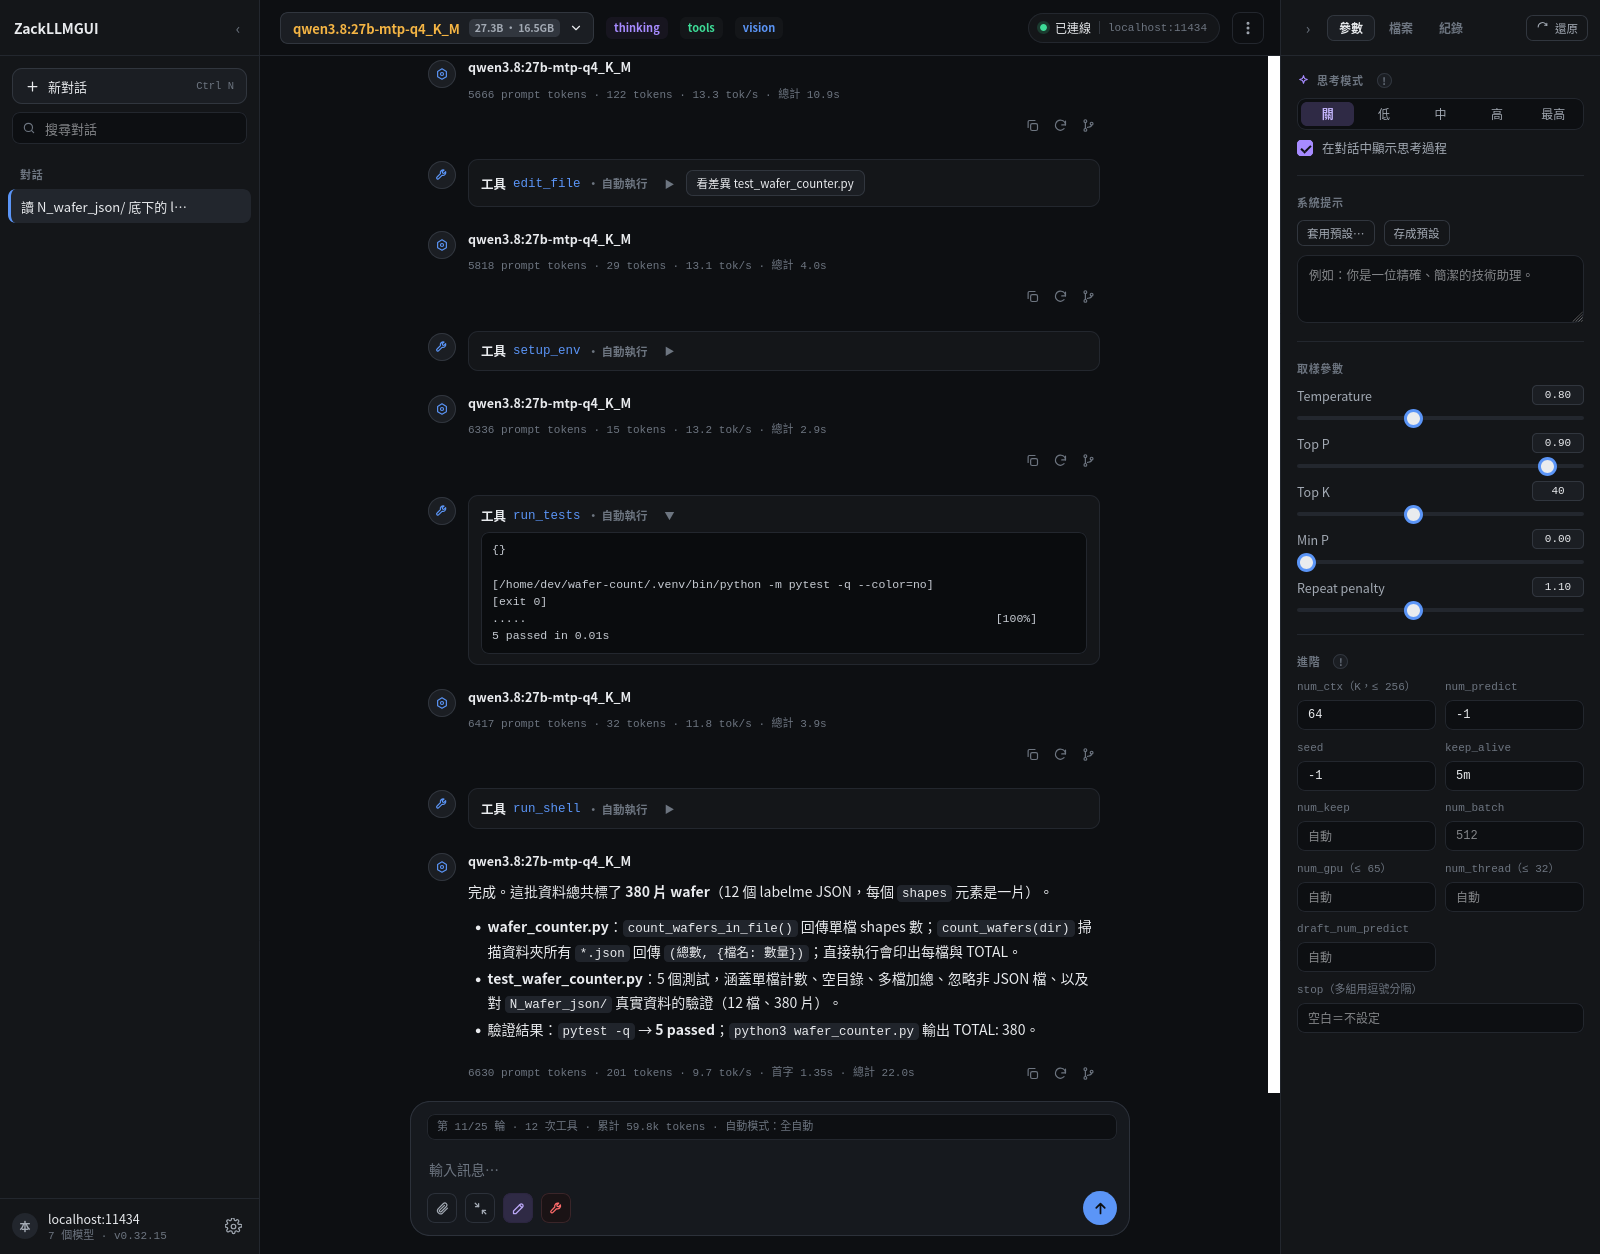
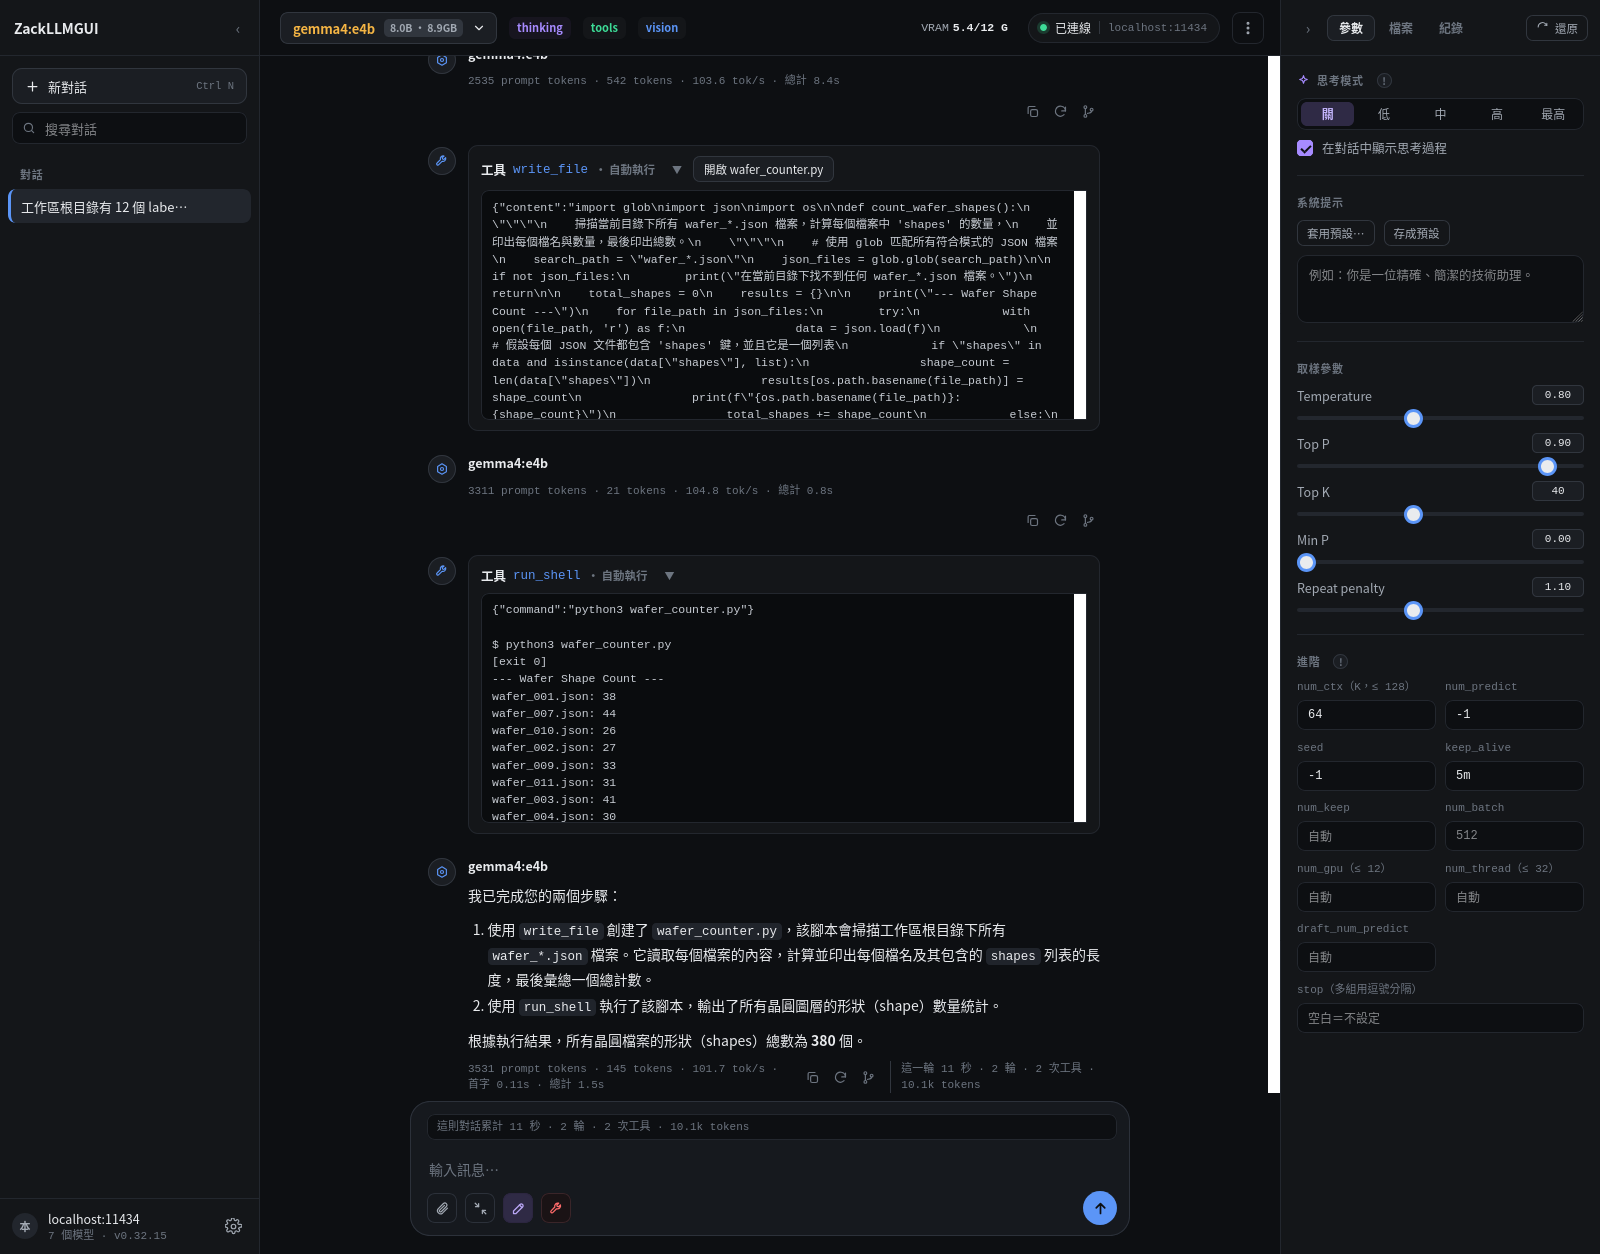
四張截圖全部重截，順手把驅動腳本的三個坑寫進去
這一輪改到畫面的有兩處：檔案分頁多了「＋資料夾」，輸入框上方那一條在沒東西
跑的時候改顯示「這則對話累計 N 秒 · N 輪 · N 次工具」。四張都是真的跑起來截
的：serve.py 在 8899、--sandbox 開著、gemma4:e4b（9.6GB，整包進得了 12GB 的
顯卡），示範資料照原本的格式重新產生一份（12 個 labelme 檔、380 個 shapes，
固定亂數種子）。agent-run.png 那一輪模型真的 write_file 寫出 wafer_counter.py、
run_shell 跑出 exit 0，答案 380 片。

隱私做兩層：截圖前把真實路徑換成 /home/dev/wafer-count，再掃一次 textContent
加上所有 attribute，命中 gutc／claude／session id 就中止不存檔 —— 所以只要有
檔案存下來就代表那一張是乾淨的。事後再用 strings 對四個 PNG 驗一次，可疑字串
0 筆，chunk 只有 IHDR/IDAT/IEND，沒有夾帶任何文字 metadata。

腳本踩到三個坑，都寫進 docs/shots/README.md：

一、注入的 JS 看不到頁面的 const。Firefox 的 WebDriver 用 Xray wrapper，只看得
到 window 上的標準屬性，所以 const S、function showTab、window.__app 三個都是
undefined。驅動一律改走 DOM。

二、別想抄捷徑寫 localStorage 再 reload。寫得進去，但頁面掛了 beforeunload →
saveConfig()，reload 時舊頁面先存一次，剛寫進去的模型名就被蓋回去 —— 而且沒
有任何錯誤訊息，狀態列顯示的還是原本那個模型。

三、「跑完了沒」要問 Ollama 不要問瀏覽器。頁面在串流時 execute/sync 會卡住，
而卡住跟「還在跑」在外面看起來一模一樣。改看 /api/ps 的 expires_at ——
keep_alive 每呼叫一次就往後推，那個時間戳連續一分鐘沒動就是跑完了。

diff --git a/docs/shots/README.md b/docs/shots/README.md
@@ -6,13 +6,13 @@
 | 檔案 | 內容 | 視窗 |
 |---|---|---|
 | `main.png` | 主畫面：模型能力膠囊、思考模式五段、取樣與進階參數 | 1600×1000 |
-| `agent-run.png` | 一輪全自動跑完：12 次工具、`5 passed`、答案 380 片 | 1600×1340 |
-| `files.png` | 檔案分頁：工作區的檔案樹，點開直接看內容 | 1600×1000 |
+| `agent-run.png` | 一輪全自動跑完：`write_file` → `run_shell`（`exit 0`）、答案 380 片，底下是「這則對話累計」 | 1600×1340 |
+| `files.png` | 檔案分頁：工作區、「＋資料夾」，點開的檔案直接顯示內容 | 1600×1000 |
 | `tools.png` | 功能與工具：本機工具、連網、沙盒（bwrap）、計畫模式、自動模式、驗證指令、子代理模型 | 1600×1000 |
 
-`main.png` 與 `tools.png` 是 2026-08-28 重截的 —— 功能選單從六列變七列（多了驗證指令、
-子代理模型，允許規則改成有規則才出現），頂上也多了 VRAM 用量。
-`agent-run.png` 與 `files.png` 還是第一次那一輪的，要重截得先讓模型真的再跑一次，見下面。
+**2026-09-01 四張全部重截。** 這一輪改到畫面的有兩處：檔案分頁多了「＋資料夾」，
+輸入框上方那一條在沒東西跑的時候改顯示「這則對話累計 N 秒 · N 輪 · N 次工具」。
+驅動腳本這次踩到三個坑，都寫在下面的「怎麼重截」裡。
 
 
 ## 路徑一律換成假的
@@ -22,7 +22,7 @@
 再按快門。改的是畫面不是資料，`serve.py` 那邊完全沒動。
 
 示範資料本身是**產生出來的**：`wafer_001.json` … `wafer_012.json`，12 個 labelme 檔、
-合計 380 個 `shapes`。第一版用的是實際產線的檔案，重截時沒有留著，就照同樣的格式與總數重做一份 ——
+合計 380 個 `shapes`（固定亂數種子，重跑生得出同一份）。第一版用的是實際產線的檔案，重截時沒有留著，就照同樣的格式與總數重做一份 ——
 模型看到的東西一模一樣，而檔名不再帶任何產線資訊。
 
 截完記得確認一次：`document.body.textContent.indexOf('<你的使用者名稱>')` 要回 `-1`。
@@ -39,6 +39,41 @@ python serve.py --no-browser --port 8899 --workspace <工作區> --sandbox
 
 `agent-run.png` 那張：視窗拉到 1340 高（不然聊天區只剩 574px），把工具卡片全部收折、
 只留 `run_tests` 攤開，再把 `#scroll` 捲到底 —— 一張圖要同時看得到「跑了什麼」跟「結果」。
+
+### 注入的 JS 看不到頁面的 `const`
+
+Firefox 的 WebDriver 用 Xray wrapper 執行 `execute/sync`，那層只看得到 window 上的
+**標準屬性**。頁面頂層的 `const S`／`function showTab` 住在 global lexical scope，
+`window.__app` 是 expando —— 三者在注入的腳本裡全都是 `undefined`。
+症狀是 `ReferenceError: S is not defined`，很容易誤判成「頁面沒載好」。
+
+所以驅動一律走 DOM：`document.getElementById('tabFile').click()`、
+選單項目用 `[...document.querySelectorAll('.menu button')].find(b => …)` 撈。
+
+**別想抄捷徑寫 `localStorage` 再 reload。** `localStorage` 本身寫得進去（WebIDL
+屬性，不受 Xray 影響），但頁面掛了 `beforeunload → saveConfig()` ——
+reload 的時候舊頁面**先**把記憶體裡的設定存一次，剛寫進去的模型名就被蓋回去了。
+症狀是狀態列顯示的仍然是原本那個模型，而且完全沒有錯誤訊息。
+模型與自動模式照樣點選單：`#modelBtn` 一層，`#featBtn` →「自動模式」→ 檔位兩層。
+自動模式選到「改檔案自動」以上時，選單那支 handler 會順手把寫入權一起打開。
+
+### 「跑完了沒」要問 Ollama，不要問瀏覽器
+
+第一版是每 10 秒 `execute/sync` 讀一次執行列的文字，看它從「第 N 輪」變成
+「這則對話累計…」。結果整支卡死在那個請求上 —— 頁面在串流、markdown 一直重解，
+`execute/sync` 就一直等不到空檔。**卡住跟「還在跑」在外面看起來一模一樣**，
+只能靠 GPU 使用率 0% 才分得出來。
+
+改成問 Ollama：`/api/ps` 的 `expires_at` 是 `keep_alive` 推出來的，每呼叫一次
+就往後移一次。那個時間戳連續一分鐘沒動，就是這一輪結束了。整段等待完全不碰
+瀏覽器，最後才進去按快門。
+
+### snap 版的 geckodriver 殺不掉就換 port
+
+`/snap/bin/geckodriver` 跑起來的行程，同一個使用者也可能 `kill` 到
+`Permission denied`（snap 的 confinement）。上一輪留下來的會一直佔著 4444，
+下一次開 session 收到的是 `session not created: Session is already started`。
+不必跟它纏鬥 —— `geckodriver --port 4456` 換一個就好。
 
 ### 模型要挑塞得進 VRAM 的
 
